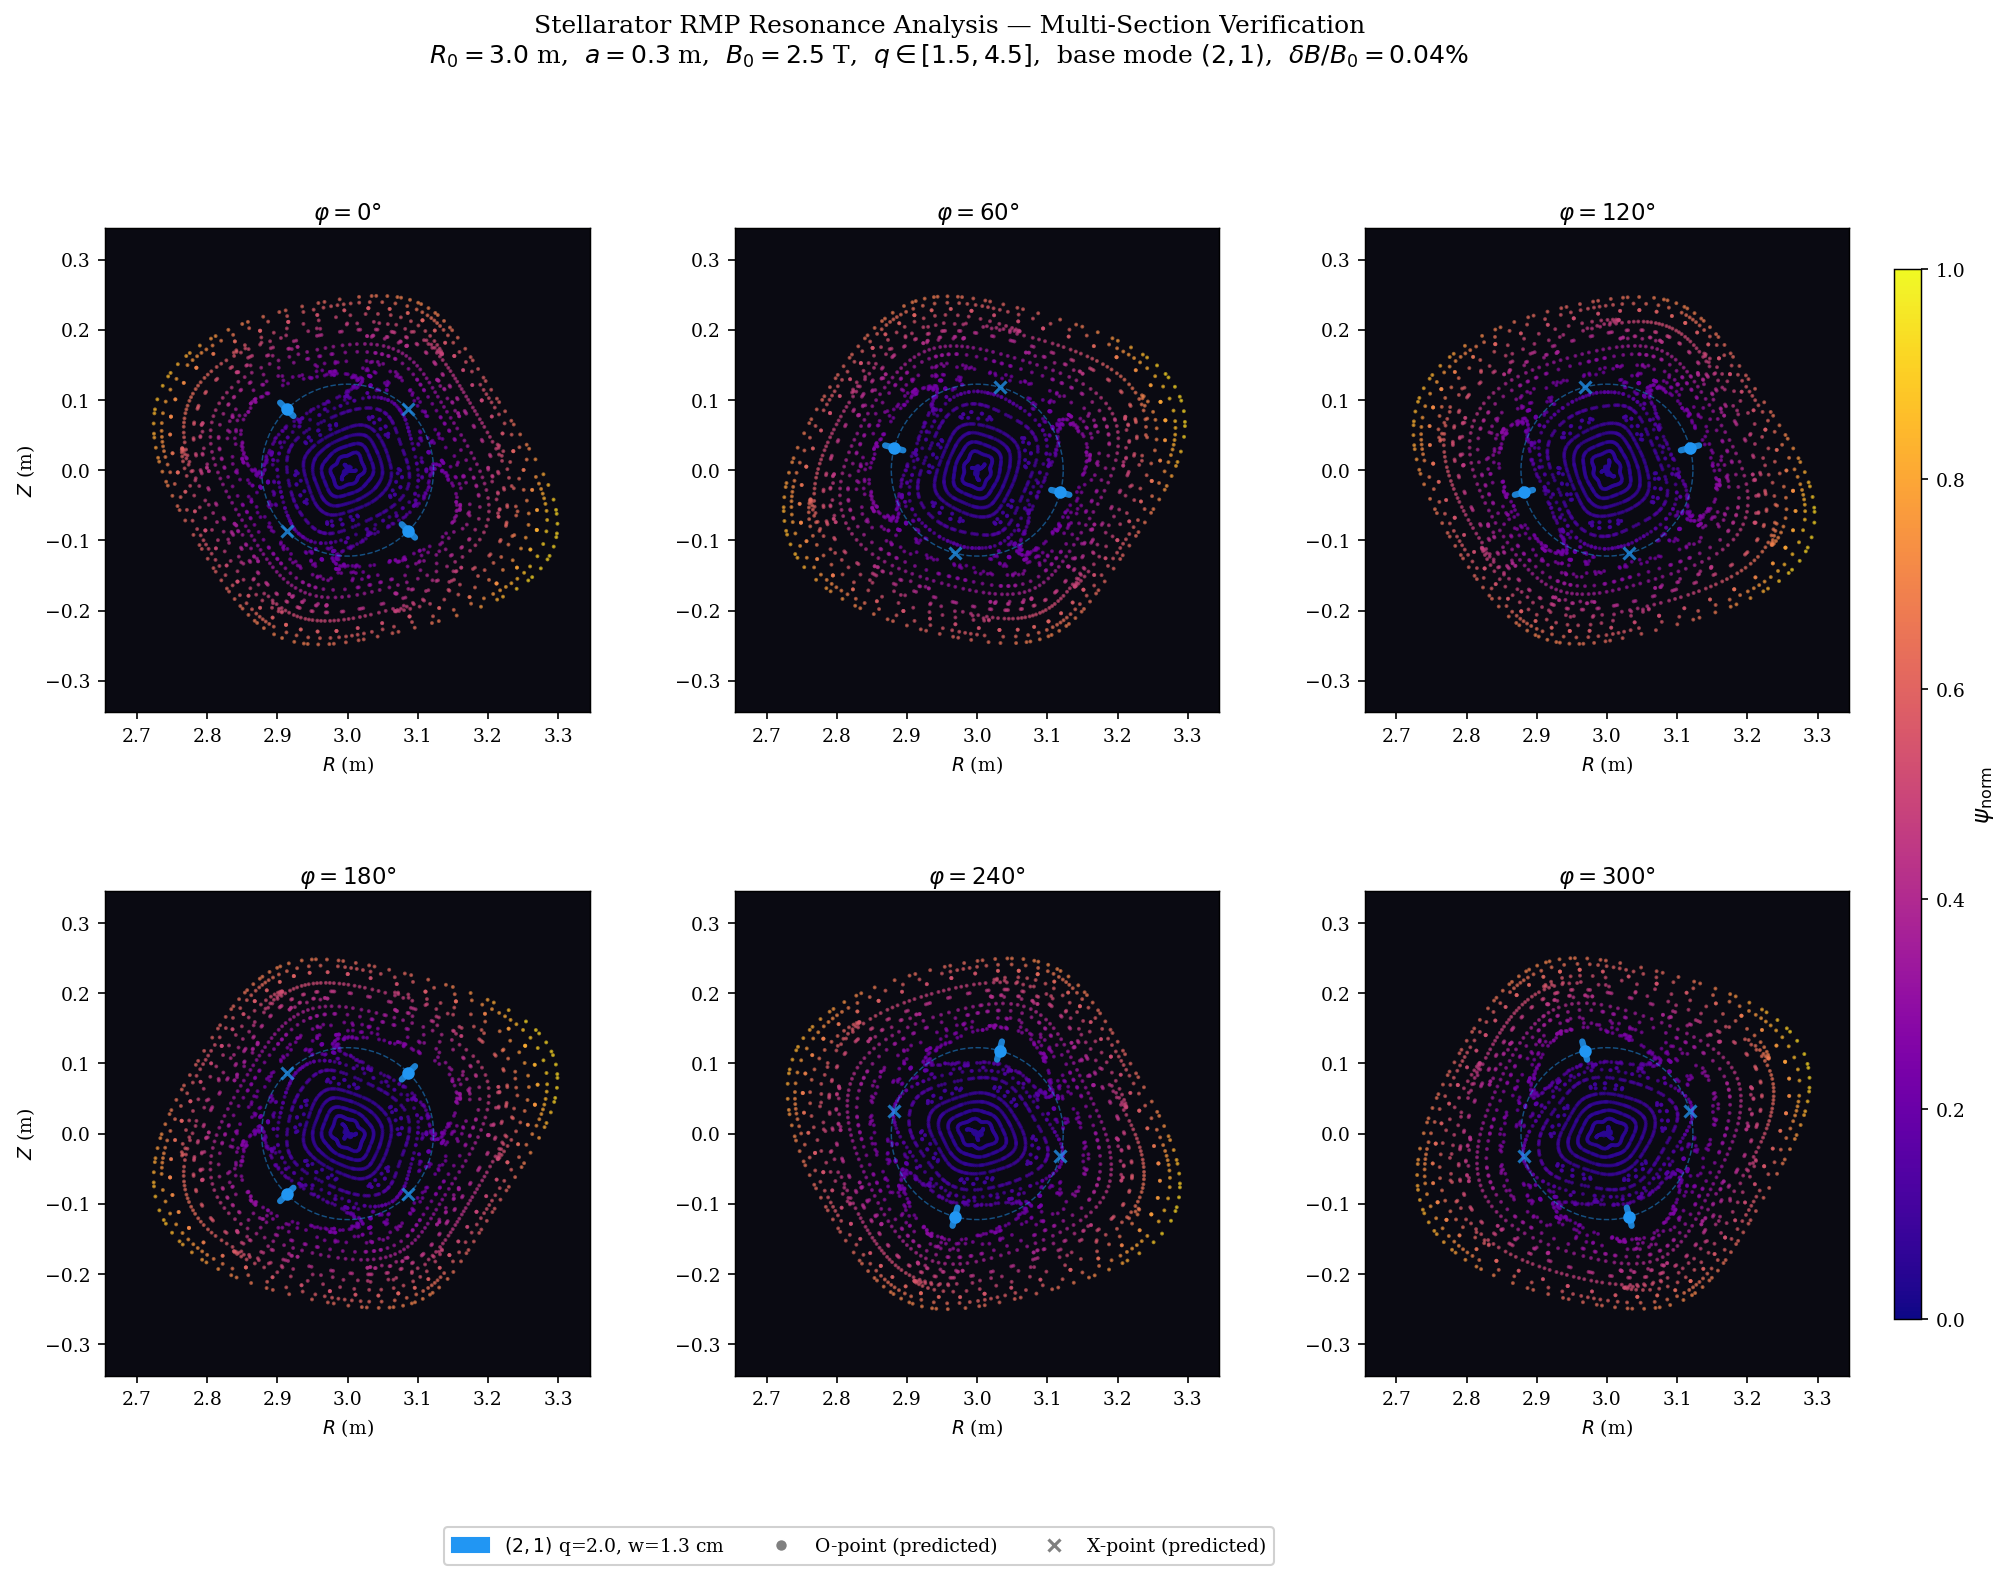
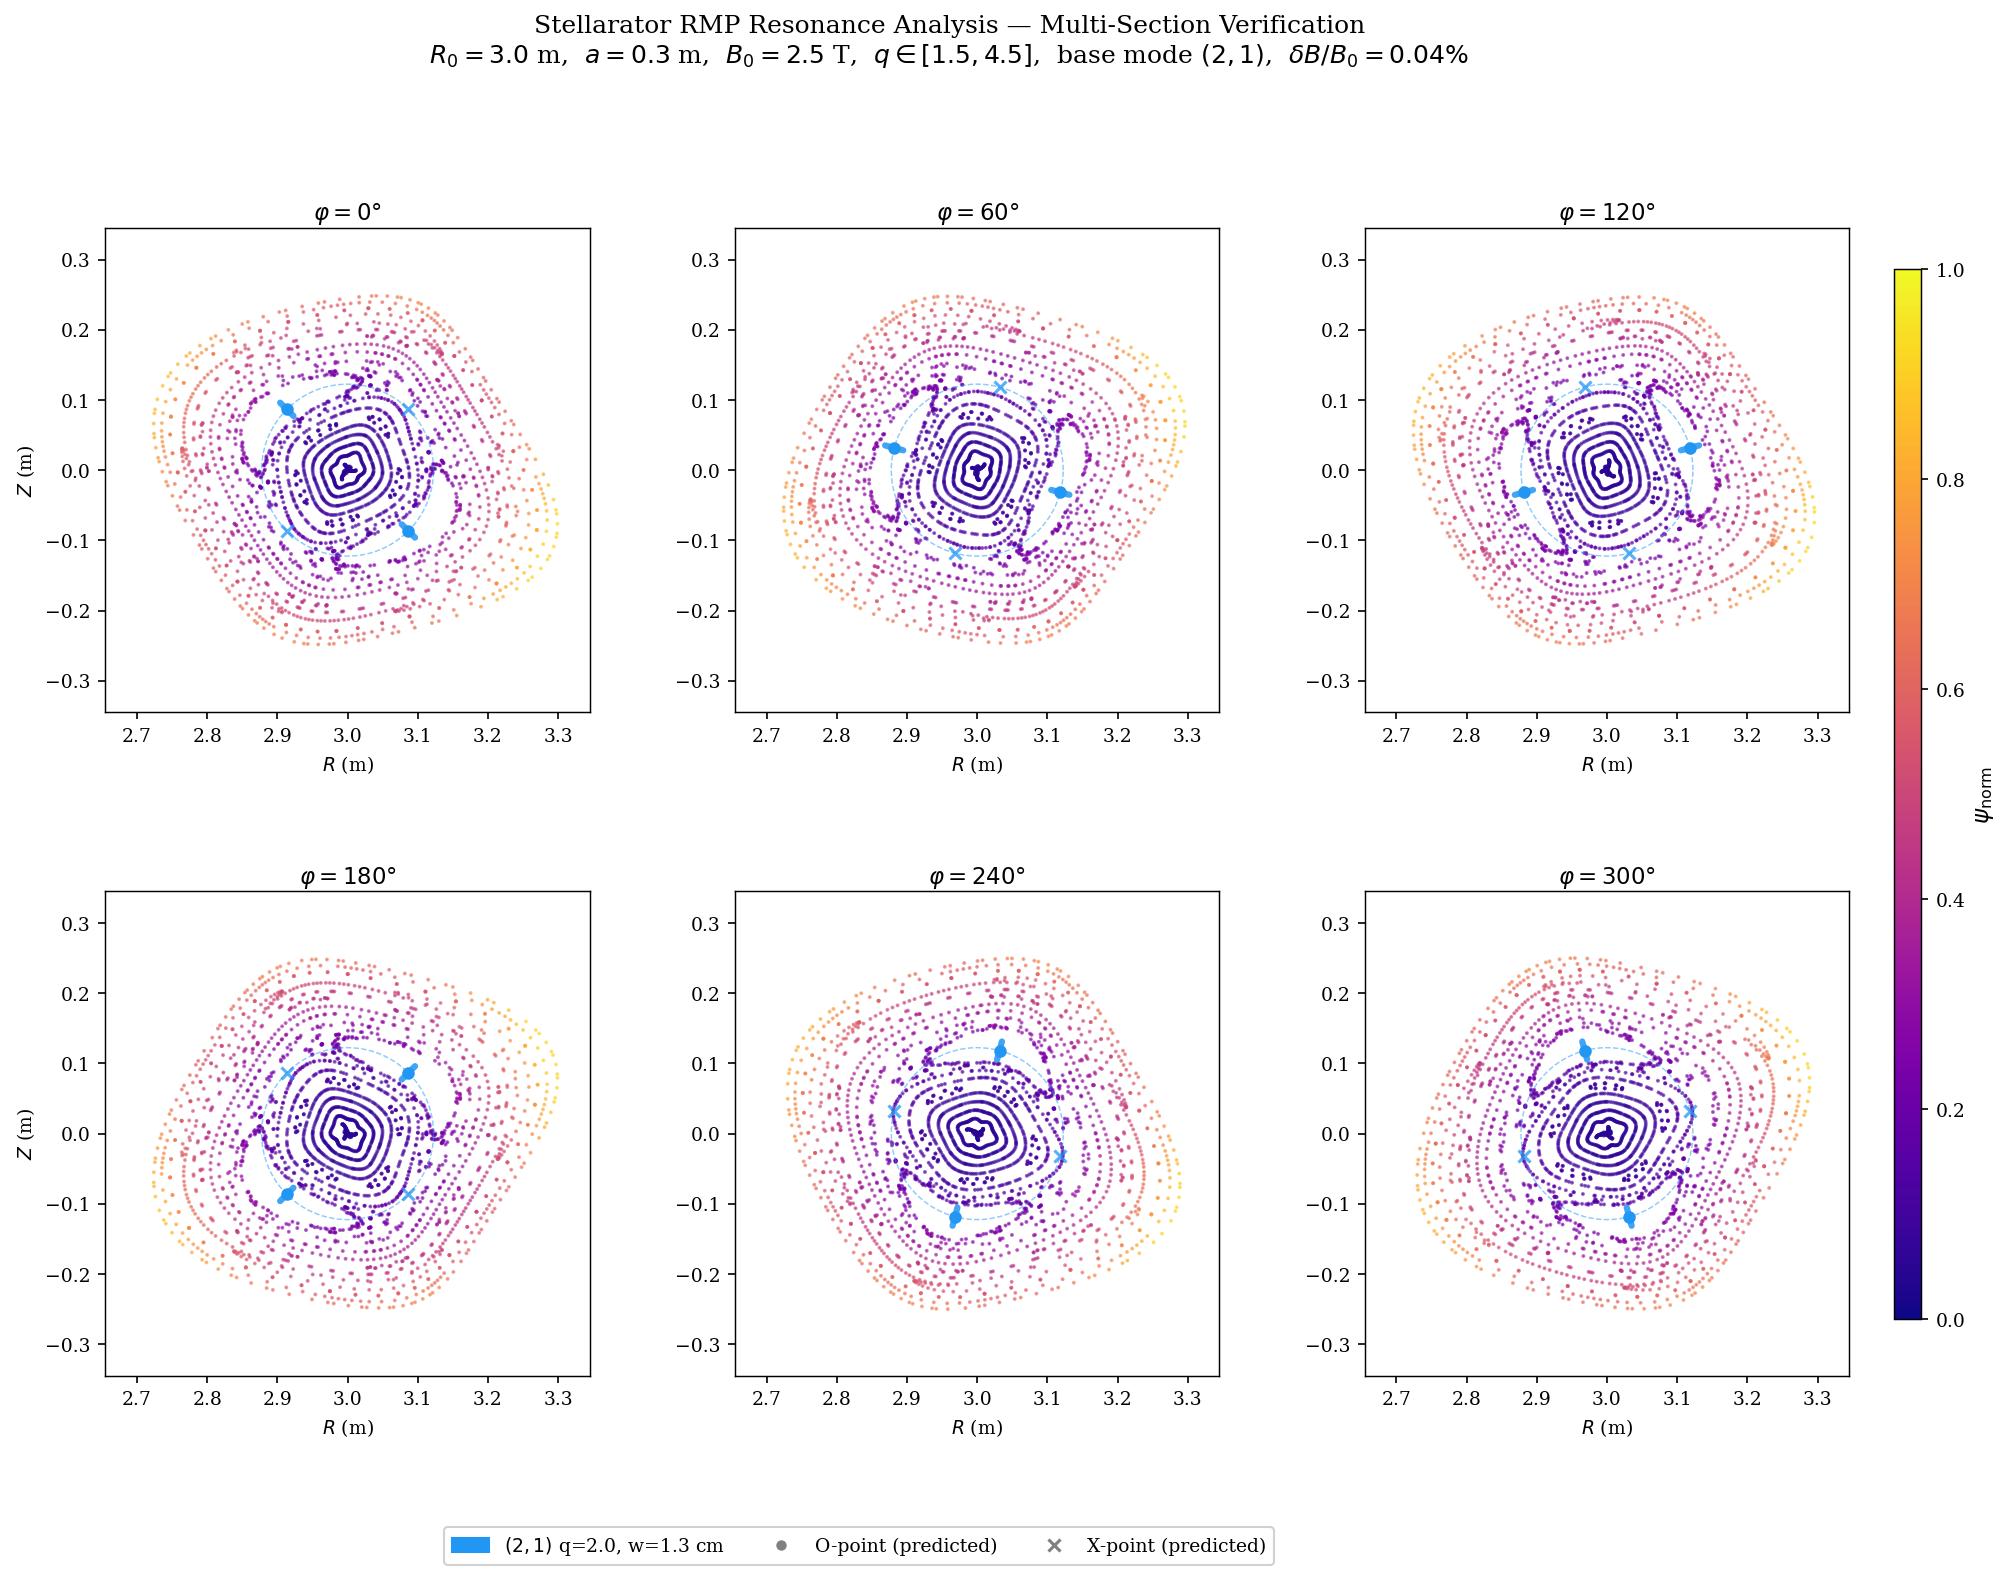
fix(scripts): RMP_stellarator_resonance white background, remove stray GBK char

diff --git a/scripts/RMP_stellarator_resonance.py b/scripts/RMP_stellarator_resonance.py
@@ -2,7 +2,7 @@
 RMP Stellarator Resonance — Multi-Section Verification
 =======================================================
 6-panel figure at φ = 0°, 60°, 120°, 180°, 240°, 300°
-Each panel: Poincaré scatter + island O/X markers at predicted poloidal angles.
+Each panel: Poincar scatter + island O/X markers at predicted poloidal angles.
 """
 import sys
 sys.path.insert(0, r'D:\Repo\pyna')
@@ -102,7 +102,7 @@ def field_func_with_rmp(rzphi_1d):
 
     return np.array([BR_tot / B_mag, BZ_tot / B_mag, B_phi / (R * B_mag)])
 
-# ── 5. Trace Poincaré maps at 6 sections ──────────────────────────────────
+# ── 5. Trace Poincar maps at 6 sections ──────────────────────────────────
 phi_sections = np.array([0, 60, 120, 180, 240, 300]) * np.pi / 180.0
 
 # Start points: scan radially from near axis to LCFS
@@ -124,7 +124,7 @@ n_turns = 120
 t_max = n_turns * 2 * np.pi * eq.R0
 dt    = 0.06   # step size in arc length
 
-print(f"[3] Tracing Poincaré maps: {len(R_starts)} field lines × {n_turns} turns...")
+print(f"[3] Tracing Poincar maps: {len(R_starts)} field lines × {n_turns} turns...")
 print(f"    t_max={t_max:.1f} m, dt={dt}, steps/line={int(t_max/dt)}")
 
 pmap = poincare_from_fieldlines(
@@ -221,7 +221,7 @@ for idx, phi_s in enumerate(phi_sections):
     if col == 0:
         ax.set_ylabel('$Z$ (m)', fontsize=9)
     # white background set in rcParams
-    ax.set_facecolor('#0a0a12')   # dark background for Poincaré
+    ax.set_facecolor('white')
 
 # Colorbar for ψ_norm
 sm = plt.cm.ScalarMappable(cmap='plasma', norm=Normalize(0, 1))
